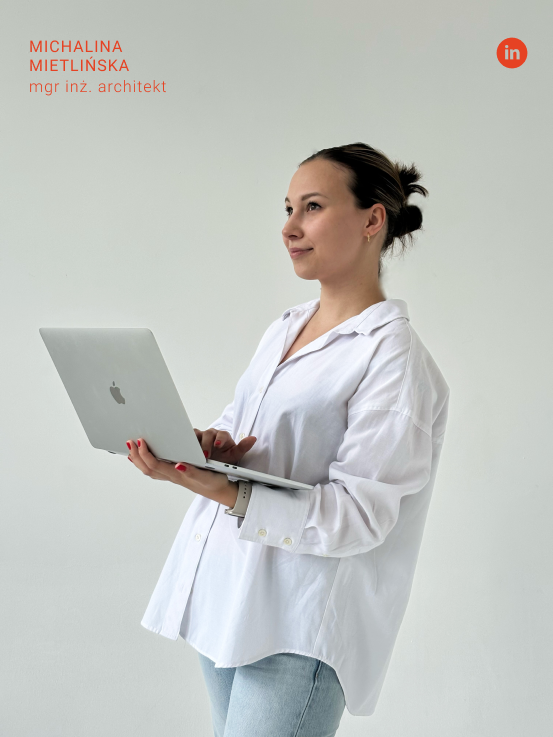
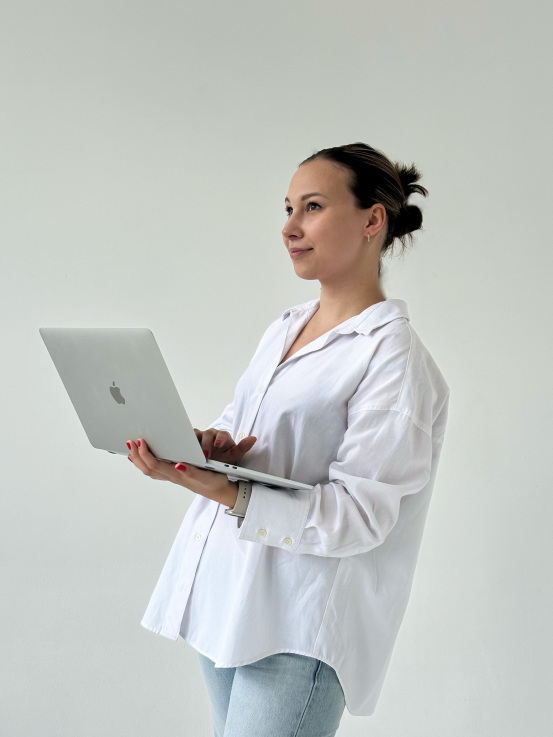
Fix footer link, fix portraits panels on About page

Changed region(s): [[0.0307, 0.0312, 0.3074, 0.1248], [0.8915, 0.0312, 0.953, 0.0936]]

diff --git a/src/pages/About.tsx b/src/pages/About.tsx
@@ -1,11 +1,11 @@
-import { motion } from 'framer-motion';
+import MochiButton from './components/MochiButton';
 import wspolne2 from '../data/pictures/about/wspolne_2.png';
 import misiaNC from '../data/pictures/about/misia_nc.png';
 import madziaNC from '../data/pictures/about/madzia_nc.png';
 import misiaColor from '../data/pictures/about/misia_color.png';
 import madziaColor from '../data/pictures/about/madzia_color.png';
 import mail from '../data/pictures/about/envelope.svg';
-import MochiButton from './components/MochiButton';
+import PortraitPanel from './components/PortraitPanel';
 
 export default function About() {
     return (
@@ -27,26 +27,18 @@ export default function About() {
                     </p>
             </section>
             <section className='section-about-us mt-24 flex mx-auto place-content-between w-4/5'>
-                <div className='relative'>
-                    <motion.img
-                        src={misiaNC}
-                        className='absolute'
-                        whileHover={{
-                            opacity: 0
-                        }}
-                    />
-                    <img src={misiaColor} />
-                </div>
-                <div>
-                    <motion.img
-                        src={madziaNC}
-                        className='absolute'
-                        whileHover={{
-                            opacity: 0
-                        }}
-                    />
-                    <img src={madziaColor} />
-                </div>
+                <PortraitPanel 
+                    name = "Michalina Mietlińska"
+                    title = "mgr inż. architekt"
+                    srcNoColor= {misiaNC}
+                    srcColor= {misiaColor}
+                />
+                <PortraitPanel
+                    name = "Magdalena Teresiak"
+                    title = "mgr inż. architekt"
+                    srcNoColor= {madziaNC}
+                    srcColor= {madziaColor}
+                />
             </section>
             <section className="section-idea center mt-24 text-mochi-orange bg-mochi-brown">
                 <div className="my-36 w-2/3">

diff --git a/src/pages/components/PortraitPanel.tsx b/src/pages/components/PortraitPanel.tsx
@@ -1,0 +1,54 @@
+import { useState } from "react";
+import { motion } from "framer-motion";
+import linkedin from '../../data/pictures/about/linkedin.svg';
+
+type Props = {
+    name: string,
+    title: string,
+    srcNoColor: string,
+    srcColor: string
+}
+
+export default function PortraitPanel({name, title, srcNoColor, srcColor} : Props) {
+    const [isHovered, setIsHovered] = useState(false);
+    function handleMouseEnter() {
+        setIsHovered(true);
+      }
+    
+      function handleMouseLeave() {
+        setIsHovered(false);
+      }
+
+      const variants = {
+        hover: {
+            opacity: 0
+        },
+        initial: {
+            opacity: 100
+        }
+      }
+
+    return (
+        <div 
+            className='relative'
+            onMouseEnter={handleMouseEnter}
+            onMouseLeave={handleMouseLeave}
+        >
+            <div className='absolute w-full z-10 flex place-content-between'>
+                <p className='text-left'>
+                    <span className='uppercase'>{name}</span>
+                    <br/>
+                    <span>{title}</span>
+                </p>
+                <p><img src={linkedin}/></p>
+            </div>
+            <motion.img
+                src={srcNoColor}
+                className='absolute z-1'
+                animate={isHovered ? "hover" : "initial"}
+                variants={variants}
+            />
+            <img src={srcColor} className='block'/>
+        </div>
+    )
+}

diff --git a/src/pages/Layout.tsx b/src/pages/Layout.tsx
@@ -66,7 +66,7 @@ export default function Layout() {
                 <div className="flex place-content-between w-3/5 mx-auto my-10 uppercase">
                     <Link to="/">strona główna</Link>
                     <Link to="/o-nas">o nas</Link>
-                    <Link to="/projekty">projekty</Link>
+                    <Link to="/projekty/salon">projekty</Link>
                     <Link to="/oferta">oferta</Link>
                     <Link to="/kontakt">kontakt</Link>
                     <Link to="">polityka prywatności</Link>
